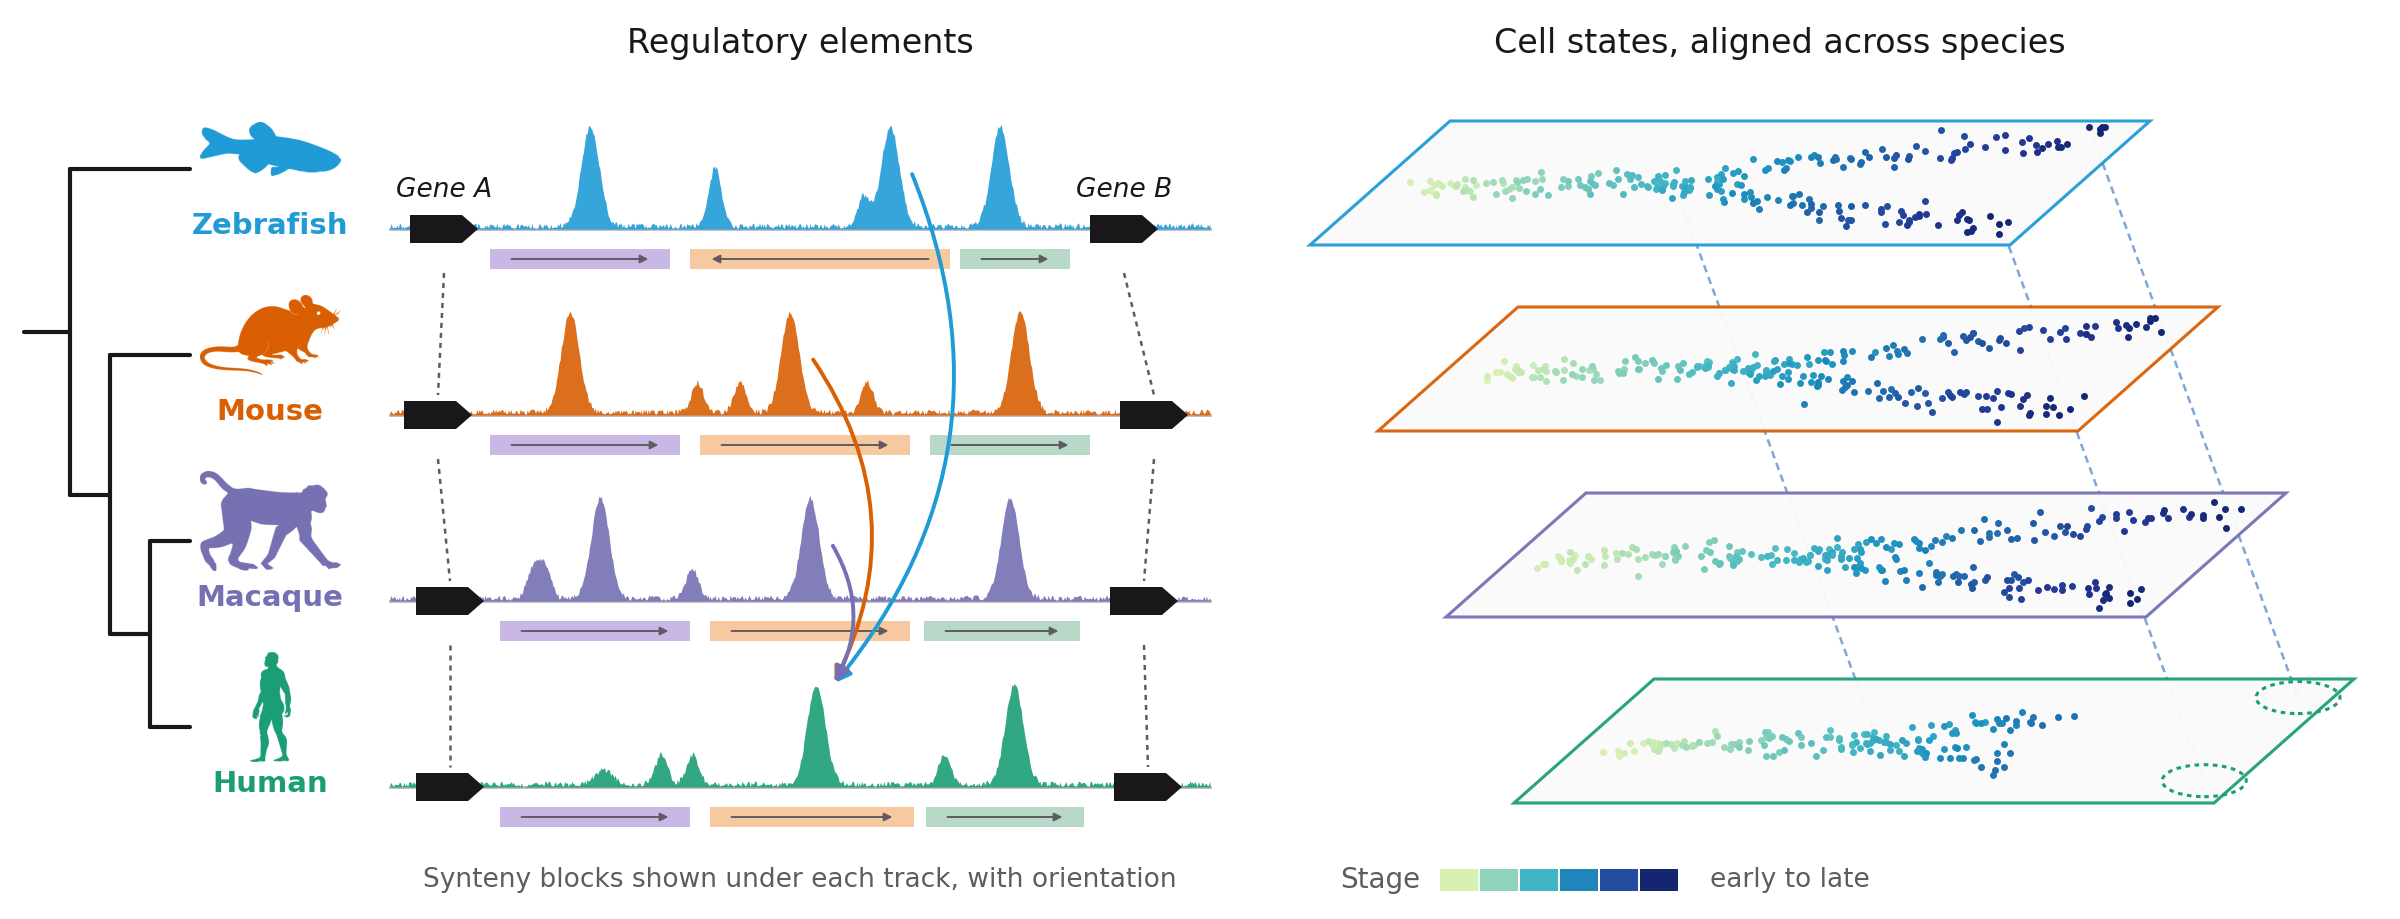
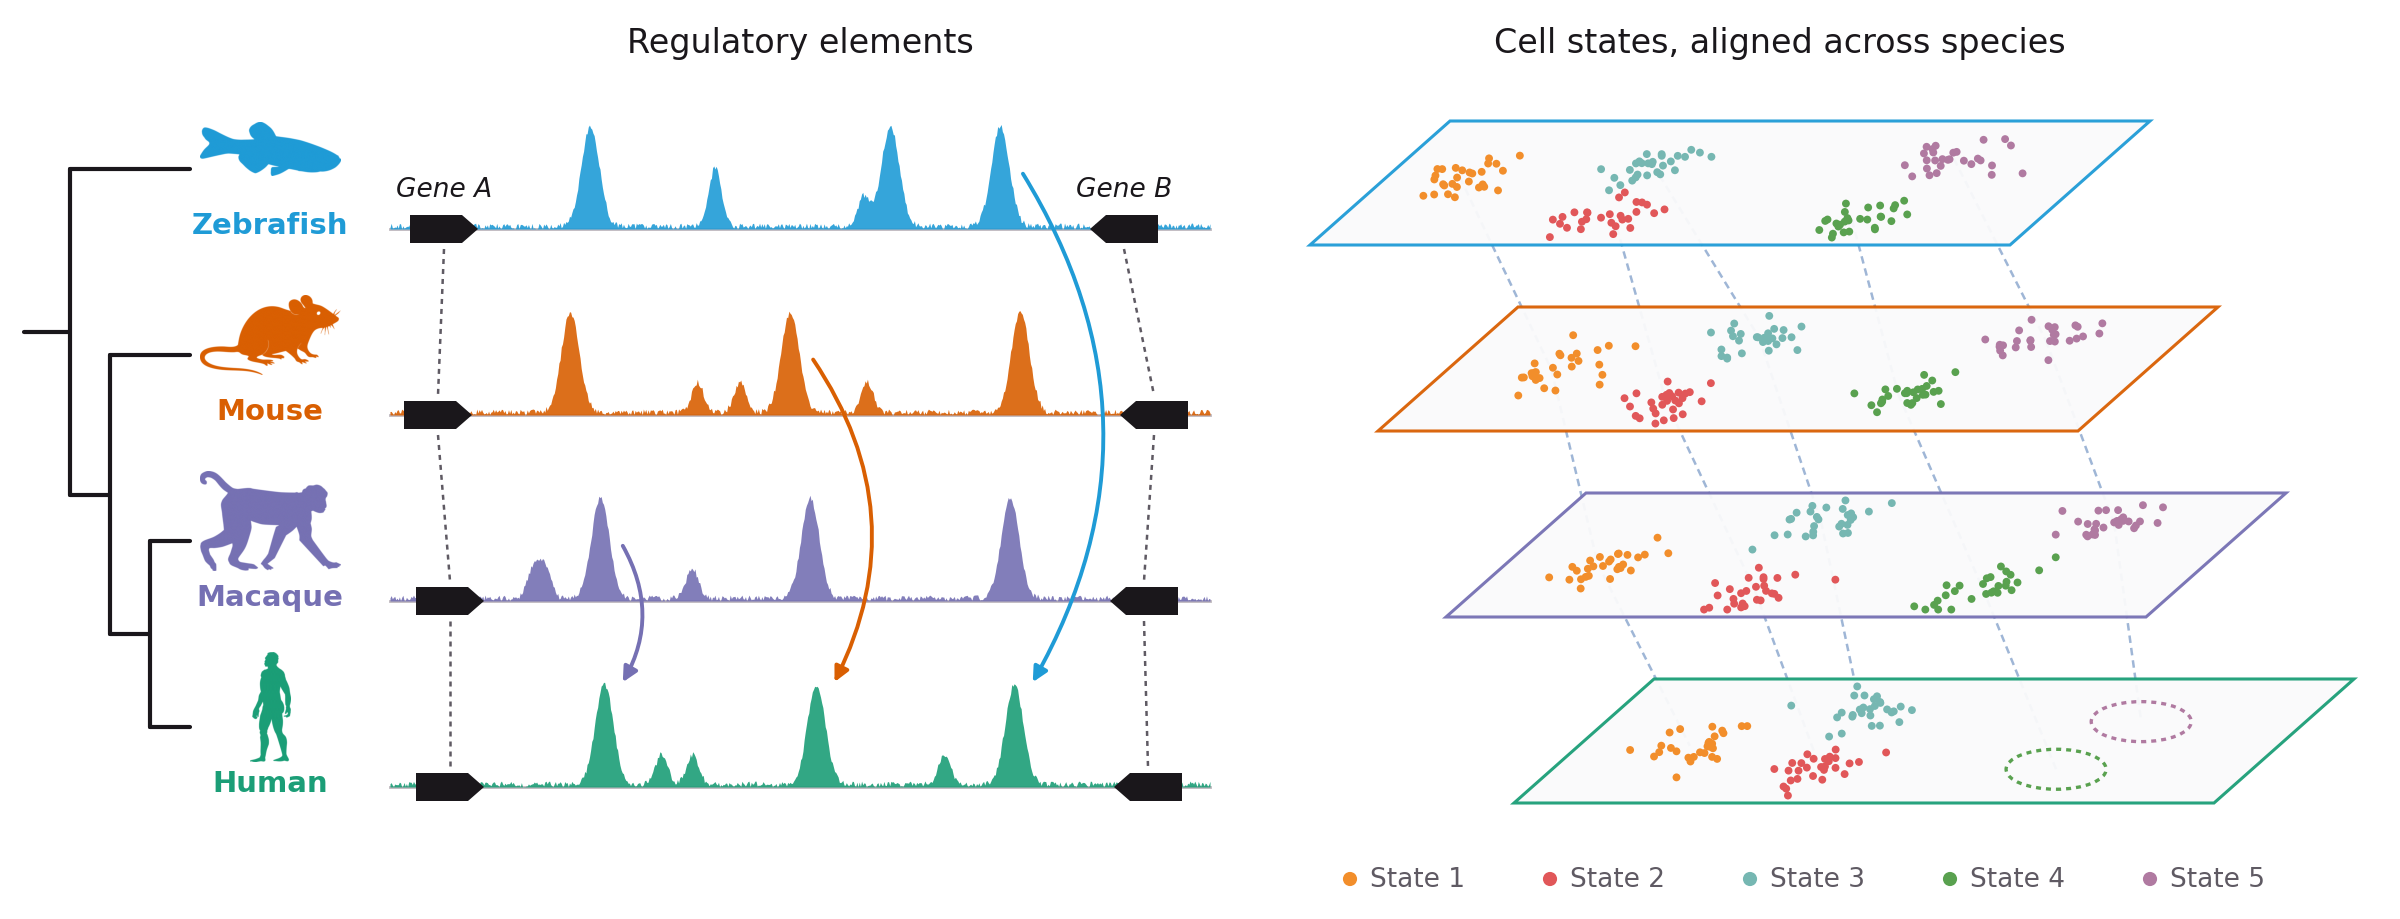
Lineage as cells with integrations accumulating edits; transfer: no synteny blocks, reverse-strand gene B, distinct proposals, state clusters

diff --git a/bin/make_research_art.py b/bin/make_research_art.py
@@ -1,11 +1,12 @@
 """Draw the three research-area images for the about page, wide and short so each spans the page.
 
-  lineage.png   a dated lineage tree with the recorder edits that happened on its branches, and the
-                character matrix the sampled cells carry (colored as in the research statement)
+  lineage.png   a lineage tree with a cell at each node; the recorder integrations inside each nucleus
+                accumulate edits division by division (colored as in the research statement)
   fate.png      a small simulation: clones grow and divide across a tissue with a signal gradient,
                 shown once colored by clone and once colored by the fate each cell took
-  transfer.png  a phylogeny joining model organisms and human, a functional genomics signal track
-                for each, syntenic blocks between them, and each organism's proposal onto human
+  transfer.png  a phylogeny with a silhouette per species, a functional genomics signal track for each
+                with orthologous genes marked, each organism's proposal onto a human element, and the
+                cell states of each species as clusters in a stack of embedding planes
 
 Schematic throughout, and none of it reproduces a figure from a proposal or an unpublished manuscript.
 
@@ -56,97 +57,65 @@ def text(ax, x, y, s, **kw):
 
 
 # =============================== 1. lineage ===============================
+# A lineage tree drawn with a cell at every node. Each cell carries the same set of recorder
+# integrations inside its nucleus; every division writes a new edit into one integration of a daughter,
+# so the edits accumulate down the tree and each sampled cell ends with its own record.
 fig, ax = canvas()
-rng = np.random.default_rng(4)
-NSITE, NTIP = 8, 12
-# a random binary tree with dated nodes, drawn sideways: time runs left to right
-X0, X1 = 0.55, 5.55                      # root time, sampling time
-Y0, Y1 = 0.45, 3.0                      # tip rows span
+rng = np.random.default_rng(9)
+NSITE = 5
+LEVELS = [3.1, 2.25, 1.4, 0.52]                    # cell centers, root at the top
+LEAF_X = np.linspace(1.35, 9.85, 8)
+UNEDITED = "#2B2530"
 
 
-def split(tips, t, depth):
-    """Divide a set of tips at time t; returns nested (time, children) structure."""
-    if len(tips) == 1:
-        return ("tip", tips[0])
-    k = int(rng.integers(1, len(tips)))
-    k = max(1, min(len(tips) - 1, len(tips) // 2 + int(rng.integers(-1, 2))))
-    tl = t + (X1 - t) * rng.uniform(0.18, 0.42)
-    tr = t + (X1 - t) * rng.uniform(0.18, 0.42)
-    return ("node", t, split(tips[:k], tl, depth + 1), split(tips[k:], tr, depth + 1))
-
-
-tree = split(list(range(NTIP)), X0, 0)
-tip_y = {i: Y1 - i * (Y1 - Y0) / (NTIP - 1) for i in range(NTIP)}
-states = {i: [None] * NSITE for i in range(NTIP)}
-used_sites = []
-
-
-def ypos(n):
-    if n[0] == "tip":
-        return tip_y[n[1]]
-    return (ypos(n[2]) + ypos(n[3])) / 2
-
-
-def tips_of(n):
-    return [n[1]] if n[0] == "tip" else tips_of(n[2]) + tips_of(n[3])
-
-
-def draw(n, parent_t, record):
-    """Draw the branch into n from parent_t; an edit may land on it and is inherited below."""
-    y = ypos(n)
-    t = X1 if n[0] == "tip" else n[1]
-    ax.plot([parent_t, t], [y, y], color=INK, lw=1.6, solid_capstyle="round", zorder=2)
-    record = list(record)
-    free = [s for s in range(NSITE) if record[s] is None]
-    if parent_t < t - 0.35 and free and rng.random() < 0.8:
-        s = int(rng.choice(free))
-        a = ALLELES[int(rng.integers(len(ALLELES)))]
-        record[s] = a
-        ex = parent_t + (t - parent_t) * rng.uniform(0.35, 0.65)
-        ax.add_patch(Rectangle((ex - 0.08, y - 0.08), 0.16, 0.16, fc=a, ec="white", lw=0.8, zorder=4))
-    if n[0] == "tip":
-        states[n[1]] = record
-        return
-    ya, yb = ypos(n[2]), ypos(n[3])
-    ax.plot([t, t], [ya, yb], color=INK, lw=1.6, solid_capstyle="round", zorder=2)
-    draw(n[2], t, record)
-    draw(n[3], t, record)
-
-
-ax.plot([X0 - 0.35, X0], [ypos(tree)] * 2, color=INK, lw=1.6, zorder=2)
-ax.plot([X0], [ypos(tree)], "o", ms=5, color=INK, zorder=3)
-draw(tree[2], X0, [None] * NSITE)
-draw(tree[3], X0, [None] * NSITE)
-ax.plot([X0, X0], [ypos(tree[2]), ypos(tree[3])], color=INK, lw=1.6, zorder=2)
-for i in range(NTIP):
-    ax.plot([X1], [tip_y[i]], "o", ms=4.2, color=INK, zorder=3)
-# time axis
-ax.add_patch(FancyArrowPatch((X0 - 0.3, 0.14), (X1, 0.14), arrowstyle="-|>", mutation_scale=11, color=GREY, lw=1.1))
-text(ax, X1 + 0.12, 0.14, "Time", fontsize=11, ha="left")
-
-# the character matrix the sampled cells carry: rows are cells, columns are recorder sites
-MX = 6.35
-cw, ch = 0.42, (Y1 - Y0) / (NTIP - 1) * 0.84
-for i in range(NTIP):
-    rec = states[i]
+def cell(x, y, sites, rx=0.42, ry=0.33, seed=0):
+    """A cell with an irregular outline, and a nucleus holding the integration sites."""
+    r = np.random.default_rng(seed)
+    th = np.linspace(0, 2 * np.pi, 120)
+    wob = 1 + 0.07 * np.sin(3 * th + r.uniform(0, 6)) + 0.05 * np.cos(5 * th + r.uniform(0, 6)) \
+        + 0.03 * np.sin(7 * th + r.uniform(0, 6))
+    ax.add_patch(Polygon(np.c_[x + rx * wob * np.cos(th), y + ry * wob * np.sin(th)], closed=True,
+                         fc="#F6EFF3", ec="#8E8395", lw=1.2, zorder=3))
+    nx, ny = x + r.normal(0, 0.02), y + r.normal(0, 0.015)
+    ax.add_patch(matplotlib.patches.Ellipse((nx, ny), 0.56, 0.36, angle=r.uniform(-8, 8),
+                                            fc="#E6DDEA", ec="#A497AD", lw=0.9, zorder=4))
+    w, gap = 0.064, 0.024
+    x0 = nx - (NSITE * w + (NSITE - 1) * gap) / 2
     for s in range(NSITE):
-        c = rec[s] if rec[s] is not None else INK
-        if rng.random() < 0.07:
-            c = DROPOUT                                    # the readout failed at this site
-        ax.add_patch(Rectangle((MX + s * (cw + 0.05), tip_y[i] - ch / 2), cw, ch, fc=c, ec="none", zorder=3))
-    ax.plot([X1 + 0.1, MX - 0.08], [tip_y[i]] * 2, color=HAIR, lw=0.9, ls=(0, (2, 2)), zorder=1)
-text(ax, MX + NSITE * (cw + 0.05) / 2, 3.33, "Recorded sites", fontsize=12, color=INK)
-text(ax, (X0 + X1) / 2, 3.33, "Lineage with recording events", fontsize=12, color=INK)
-# legend
-LX = MX + NSITE * (cw + 0.05) + 0.25
-for k, (c, lab) in enumerate(((INK, "Unedited"), (DROPOUT, "Dropout"), (TEAL, "Edits"))):
-    y = 2.75 - k * 0.42
-    if lab == "Edits":
-        for j, cc in enumerate(ALLELES[:4]):
-            ax.add_patch(Rectangle((LX + j * 0.1, y - 0.1), 0.09, 0.2, fc=cc, ec="none"))
-    else:
-        ax.add_patch(Rectangle((LX, y - 0.1), 0.37, 0.2, fc=c, ec="none"))
-    text(ax, LX + 0.5, y, lab, fontsize=10.5, ha="left")
+        c = sites[s] if sites[s] is not None else UNEDITED
+        ax.add_patch(Rectangle((x0 + s * (w + gap), ny - 0.1), w, 0.2, fc=c, ec="none", zorder=5))
+
+
+def grow(level, lo, hi, sites, px=None, py=None, node=0):
+    x = float(np.mean(LEAF_X[lo:hi]))
+    y = LEVELS[level]
+    if px is not None:                           # the branch from the parent, with the edit it wrote
+        ax.plot([px, px, x, x], [py - 0.34, (py + y) / 2 + 0.05, (py + y) / 2 + 0.05, y + 0.34],
+                color=INK, lw=1.4, solid_joinstyle="round", zorder=2)
+    cell(x, y, sites, seed=node)
+    if level == len(LEVELS) - 1:
+        return
+    mid = (lo + hi) // 2
+    for k, (a, b) in enumerate(((lo, mid), (mid, hi))):
+        child = list(sites)
+        free = [s for s in range(NSITE) if child[s] is None]
+        if free and rng.random() < 0.9:
+            s = int(rng.choice(free))
+            child[s] = ALLELES[int(rng.integers(len(ALLELES)))]
+        grow(level + 1, a, b, child, x, y, node * 2 + 1 + k)
+
+
+grow(0, 0, 8, [None] * NSITE)
+ax.add_patch(FancyArrowPatch((0.45, 3.35), (0.45, 0.3), arrowstyle="-|>", mutation_scale=12, color=GREY, lw=1.2))
+text(ax, 0.22, 1.85, "Time", fontsize=11, rotation=90)
+# key
+KX = 10.55
+ax.add_patch(Rectangle((KX, 2.62), 0.07, 0.2, fc=UNEDITED, ec="none"))
+text(ax, KX + 0.17, 2.72, "Unedited", fontsize=10.5, ha="left")
+for j, c in enumerate(ALLELES[:4]):
+    ax.add_patch(Rectangle((KX + j * 0.09, 2.2), 0.07, 0.2, fc=c, ec="none"))
+text(ax, KX + 0.43, 2.3, "Edited", fontsize=10.5, ha="left")
+text(ax, KX + 0.55, 1.8, "Integrations\ninside each\nnucleus", fontsize=9.5, color=MUTED)
 save(fig, "lineage.png")
 
 # =============================== 2. fate ===============================
@@ -321,31 +290,20 @@ xs = np.linspace(TX0, TX1, 700)
 ELEM = {"zebrafish": [2.95, 4.45, 5.0], "mouse": [2.85, 3.95, 5.1], "macaque": [3.0, 4.05, 5.05], "human": [3.02, 4.08, 5.07]}
 GA = {"zebrafish": 2.05, "mouse": 2.02, "macaque": 2.08, "human": 2.08}
 GB = {"zebrafish": 5.45, "mouse": 5.6, "macaque": 5.55, "human": 5.57}
-BLOCKS = {  # (start, end, color, strand) along the genome axis, in the order they occur
-    "zebrafish": [(2.45, 3.35, "#C9B8E6", 1), (3.45, 4.75, "#F6C9A0", -1), (4.8, 5.35, "#B8D8C8", 1)],
-    "mouse": [(2.45, 3.4, "#C9B8E6", 1), (3.5, 4.55, "#F6C9A0", 1), (4.65, 5.45, "#B8D8C8", 1)],
-    "macaque": [(2.5, 3.45, "#C9B8E6", 1), (3.55, 4.55, "#F6C9A0", 1), (4.62, 5.4, "#B8D8C8", 1)],
-    "human": [(2.5, 3.45, "#C9B8E6", 1), (3.55, 4.57, "#F6C9A0", 1), (4.63, 5.42, "#B8D8C8", 1)],
-}
-
-
-def gene(x, y, color, label=None):
-    ax.add_patch(Polygon([(x, y - 0.07), (x + 0.26, y - 0.07), (x + 0.34, y), (x + 0.26, y + 0.07), (x, y + 0.07)],
-                         closed=True, fc=color, ec="none", zorder=5))
+def gene(x, y, color, label=None, strand=1):
+    """A gene arrow; strand -1 points left, as a gene on the reverse strand."""
+    pts = [(0, -0.07), (0.26, -0.07), (0.34, 0), (0.26, 0.07), (0, 0.07)]
+    if strand < 0:
+        pts = [(0.34 - px, py) for px, py in pts]
+    ax.add_patch(Polygon([(x + px, y + py) for px, py in pts], closed=True, fc=color, ec="none", zorder=5))
     if label:
         text(ax, x + 0.17, y + 0.2, label, fontsize=9.5, color=INK, style="italic")
 
 
 for (lab, key, col), y in zip(SPECIES, ROW):
-    # the synteny blocks, drawn as a band just under the track with their orientation
-    for s0, s1, bc, strand in BLOCKS[key]:
-        ax.add_patch(Rectangle((s0, y - 0.2), s1 - s0, 0.1, fc=bc, ec="none", zorder=2))
-        ax.add_patch(FancyArrowPatch((s0 + 0.08, y - 0.15) if strand > 0 else (s1 - 0.08, y - 0.15),
-                                     (s1 - 0.08, y - 0.15) if strand > 0 else (s0 + 0.08, y - 0.15),
-                                     arrowstyle="-|>", mutation_scale=6, color=MUTED, lw=0.7, zorder=3))
     sig = 0.03 * rs.random(xs.size)
     for k, e in enumerate(ELEM[key]):
-        h = 0.5 if not (key == "human" and k == 0) else 0.07           # element 1 is silent in human
+        h = 0.5
         sig += h * np.exp(-((xs - e) ** 2) / (2 * 0.045 ** 2))
     for e in rs.uniform(TX0 + 0.5, TX1 - 0.8, 3):                       # species-specific peaks
         sig += 0.15 * np.exp(-((xs - e) ** 2) / (2 * 0.03 ** 2))
@@ -353,21 +311,23 @@ for (lab, key, col), y in zip(SPECIES, ROW):
     ax.plot([TX0, TX1], [y, y], color=GREY, lw=1, zorder=2)
     top = key == "zebrafish"
     gene(GA[key], y, INK, "Gene A" if top else None)
-    gene(GB[key], y, INK, "Gene B" if top else None)
+    gene(GB[key], y, INK, "Gene B" if top else None, strand=-1)
 # orthologous genes joined across species
 for (_, a, _), (_, b, _), ya, yb in zip(SPECIES, SPECIES[1:], ROW, ROW[1:]):
     for g in (GA, GB):
-        ax.plot([g[a] + 0.17, g[b] + 0.17], [ya - 0.22, yb + 0.1], color=MUTED, lw=0.9, ls=(0, (2, 2)), zorder=1)
-# each model organism's proposal for the element in the second block, onto the human track
-for (lab, key, col), y in zip(SPECIES[:3], ROW[:3]):
-    ax.add_patch(FancyArrowPatch((ELEM[key][1] + 0.1, y + 0.3), (ELEM["human"][1] + 0.08, ROW[3] + 0.5),
+        ax.plot([g[a] + 0.17, g[b] + 0.17], [ya - 0.1, yb + 0.1], color=MUTED, lw=0.9, ls=(0, (2, 2)), zorder=1)
+# each model organism proposes a different human element, from the element it has evidence for
+for (lab, key, col), y, k in zip(SPECIES[:3], ROW[:3], (2, 1, 0)):
+    ax.add_patch(FancyArrowPatch((ELEM[key][k] + 0.1, y + 0.3), (ELEM["human"][k] + 0.08, ROW[3] + 0.5),
                                  connectionstyle="arc3,rad=-0.3", arrowstyle="-|>", mutation_scale=11,
                                  color=col, lw=1.4, zorder=6))
 text(ax, (TX0 + TX1) / 2, 4.38, "Regulatory elements", fontsize=12, color=INK)
-text(ax, 4.0, 0.2, "Synteny blocks shown under each track, with orientation", fontsize=9.5, color=MUTED)
 
 # ---------------- right: a stack of embedding planes, one per species ----------------
-STAGE = plt.cm.YlGnBu
+# each cell state is a cluster, placed alike in every species with a small species-specific shift;
+# matching clusters are linked plane to plane, and the two latest states are missing in human
+STATES = [("State 1", "#F28E2B", 0.13, 0.5), ("State 2", "#E15759", 0.38, 0.28), ("State 3", "#76B7B2", 0.38, 0.72),
+          ("State 4", "#59A14F", 0.72, 0.25), ("State 5", "#B07AA1", 0.78, 0.72)]
 
 
 def Pk(k, a, b):
@@ -375,45 +335,30 @@ def Pk(k, a, b):
     return ox + 3.5 * a + 0.7 * b, oy + 0.62 * b
 
 
-def arc(k, p0, p1, t0, t1, upto=1.0, bow=0.12):
-    mx, my = (p0[0] + p1[0]) / 2, (p0[1] + p1[1]) / 2
-    dx, dy = p1[0] - p0[0], p1[1] - p0[1]
-    ctrl = (mx - bow * dy, my + bow * dx)
-    us = np.linspace(0, 1, 26)
-    for u in us:
-        a = (1 - u) ** 2 * p0[0] + 2 * (1 - u) * u * ctrl[0] + u ** 2 * p1[0]
-        b = (1 - u) ** 2 * p0[1] + 2 * (1 - u) * u * ctrl[1] + u ** 2 * p1[1]
-        if u > upto:
-            continue
-        for _ in range(3):
-            aa = min(max(a + rs.normal(0, 0.018), 0.03), 0.97)
-            bb = min(max(b + rs.normal(0, 0.05), 0.05), 0.95)
-            x, y = Pk(k, aa, bb)
-            ax.plot([x], [y], ".", ms=3.0, color=STAGE(0.2 + 0.75 * (t0 + u * (t1 - t0))), zorder=10 - k)
-    return Pk(k, *p1)
-
-
-TIPS = []
+CENT = []
 for k, (lab, key, col) in enumerate(SPECIES):
     ax.add_patch(Polygon([Pk(k, 0, 0), Pk(k, 1, 0), Pk(k, 1, 1), Pk(k, 0, 1)], closed=True,
                          fc="#FAFAFB", ec=col, lw=1.1, alpha=0.95, zorder=9 - k))
-    human = key == "human"
-    fork = arc(k, (0.06, 0.45), (0.42, 0.5), 0.0, 0.42)
-    up = arc(k, (0.42, 0.5), (0.95, 0.85), 0.42, 1.0, upto=0.45 if human else 1.0)
-    dn = arc(k, (0.42, 0.5), (0.95, 0.18), 0.42, 1.0, upto=0.45 if human else 1.0, bow=-0.12)
-    if human:
-        for p in (up, dn):
-            ax.add_patch(Ellipse(p, 0.42, 0.16, fc="none", ec=col, lw=1.1, ls=(0, (1.5, 1.5)), zorder=11))
-    TIPS.append((fork, up, dn))
-# corresponding states linked from plane to plane
-for (fa, ua, da), (fb, ub, db) in zip(TIPS, TIPS[1:]):
-    for p, q in ((fa, fb), (ua, ub), (da, db)):
-        ax.plot([p[0], q[0]], [p[1], q[1]], color="#7FA6D6", lw=0.9, ls=(0, (3, 2)), zorder=1)
+    cents = {}
+    for j, (sname, sc, ca, cb) in enumerate(STATES):
+        ca2, cb2 = ca + rs.normal(0, 0.025), cb + rs.normal(0, 0.04)
+        cents[j] = Pk(k, ca2, cb2)
+        if key == "human" and j >= 3:                                   # not sampled in human
+            ax.add_patch(Ellipse(cents[j], 0.5, 0.2, fc="none", ec=sc, lw=1.2, ls=(0, (1.5, 1.5)), zorder=11))
+            continue
+        n = 28
+        aa = np.clip(ca2 + rs.normal(0, 0.035, n), 0.03, 0.97)
+        bb = np.clip(cb2 + rs.normal(0, 0.09, n), 0.06, 0.94)
+        pts = np.array([Pk(k, u, v) for u, v in zip(aa, bb)])
+        ax.scatter(pts[:, 0], pts[:, 1], s=8, color=sc, edgecolors="none", zorder=10 - k)
+    CENT.append(cents)
+for ca, cb in zip(CENT, CENT[1:]):
+    for j in range(len(STATES)):
+        ax.plot([ca[j][0], cb[j][0]], [ca[j][1], cb[j][1]], color="#9FB6D6", lw=0.9, ls=(0, (3, 2)), zorder=1)
 text(ax, 8.9, 4.38, "Cell states, aligned across species", fontsize=12, color=INK)
-for i in range(6):
-    ax.add_patch(Rectangle((7.2 + i * 0.2, 0.14), 0.19, 0.11, fc=STAGE(0.2 + 0.75 * i / 5), ec="none"))
-text(ax, 7.1, 0.2, "Stage", fontsize=10, ha="right")
-text(ax, 8.55, 0.2, "early to late", fontsize=9.5, ha="left")
+for j, (sname, sc, _, _) in enumerate(STATES):
+    ax.scatter([6.75 + j * 1.0], [0.2], s=26, color=sc, edgecolors="none")
+    text(ax, 6.85 + j * 1.0, 0.2, sname, fontsize=9.5, ha="left")
 fig.savefig(os.path.join(OUT, "transfer.png"), dpi=DPI, facecolor="white")
 plt.close(fig)
 print("wrote", sorted(os.listdir(OUT)))
